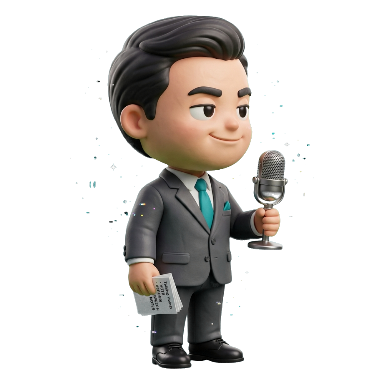
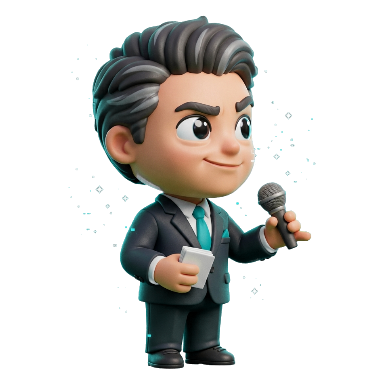
Add all 21 character sprites (made in Google Flow, keyed by tools/chroma-key.mjs)

Changed region(s): [[0.2188, 0.0312, 0.8125, 0.9688], [0.2188, 0.4688, 0.2812, 0.5], [0.6562, 0.75, 0.6875, 0.7812]]

diff --git a/js/data/asset-manifest.js b/js/data/asset-manifest.js
@@ -2,16 +2,26 @@
 // Files not listed here are never requested by the game (no 404 spam).
 export const ASSET_FILES = [
   'assets/enemies/arafat/walk.png',
+  'assets/enemies/ferdous/walk.png',
   'assets/enemies/hasina/walk.png',
   'assets/enemies/inan/walk.png',
+  'assets/enemies/mahi/walk.png',
   'assets/enemies/momotaz/walk.png',
+  'assets/enemies/murad/walk.png',
   'assets/enemies/nanok/walk.png',
   'assets/enemies/nazmul/walk.png',
   'assets/enemies/quader/walk.png',
+  'assets/enemies/riyaz/walk.png',
+  'assets/enemies/saddam/walk.png',
   'assets/enemies/shamim/walk.png',
+  'assets/enemies/shohag/walk.png',
+  'assets/enemies/somrat/walk.png',
   'assets/enemies/taposh/walk.png',
   'assets/enemies/zakir/walk.png',
+  'assets/heroes/common/ready.png',
   'assets/heroes/farmer/ready.png',
+  'assets/heroes/studentF/ready.png',
+  'assets/heroes/studentM/ready.png',
 ];
 
 // Sprite paths follow the conventions in docs/prompts/.

diff --git a/docs/CHANGELOG.md b/docs/CHANGELOG.md
@@ -3,6 +3,21 @@
 Newest first. Every work session adds an entry: date, what changed, why, and anything
 left unfinished. Keep entries short; details belong in commits and ARCHITECTURE.md.
 
+## 2026-11-12 — all 21 characters (made by the user in Google Flow)
+- The user generated all 21 characters by hand in Google Flow with the prompts in
+  `docs/prompts/flow-batches.md` (the queued agy job was cancelled), replacing the 11
+  agy-made ones so the set matches. The old ones are in `art-src/*/old.generated/` (not
+  committed).
+- Claude:
+  - renamed `studenF.jpg` → `studentF.jpg`;
+  - removed the Windows `*:Zone.Identifier` files;
+  - keyed all 21 (`tools/chroma-key.mjs`; the green flag headbands survived) and rebuilt
+    the manifest (21 files, ~2.5 MB).
+  - The asset report now treats `kicked`/`idle`/`kick`/`cheer` as optional (the game fakes
+    them).
+- Tested headless (desktop + phone): all 21 images load, no page errors; hero select,
+  classic, lasso jail and the how-to roster show the art.
+
 ## 2026-11-12 — simpler game, reaction bubbles, automated 3D art (branch `lasso`)
 - **The user's goal:** fun for all ages, not complex. Decisions: keep only ❄ Freeze + 🛡 Shield;
   remove the classic upgrade (perk) screen and the Sweep button; add funny reaction bubbles;

diff --git a/docs/TODO.md b/docs/TODO.md
@@ -42,10 +42,9 @@ you notice but don't fix. The longer feature wishlist is in README.md → "Roadm
 - [ ] Ideas: perks for this mode, an endless variant, letting the player drag the hero.
 
 ## Art (2026-11-12)
-- [ ] 10 characters still to generate after the agy image quota reset (see CHANGELOG); then
-      look at `art-src/sheet.png` and regenerate any odd ones with
-      `node tools/gen-art.mjs --only <id> --force`.
-- [ ] Some generated figures face the viewer or left instead of right; mirroring assumes
-      right. Regenerate those if it looks wrong in play.
+- [x] All 21 characters generated (user, Google Flow) and keyed.
+- [ ] The sprites total ~2.5 MB of PNG (384 px). If load time on mobile data matters, try
+      256 px (`node tools/chroma-key.mjs --size 256`) or add WebP support to the manifest.
+- [ ] Hero cards and the how-to roster show the whole tiny body in a small circle; a
+      head-and-shoulders crop would read better there.
 - [ ] Optional extra poses (`kicked`, hero `kick`) could be generated later for even more life.
-

diff --git a/README.md b/README.md
@@ -180,6 +180,9 @@ image generator (3D toy style), `node tools/chroma-key.mjs` removes the green ba
 `node tools/build-assets.mjs`. One image per character is enough; other poses are animated by
 the game. Details: `tools/art/README.md`.
 
+**With Google Flow / Gemini web:** paste the batches from `docs/prompts/flow-batches.md`, save
+each image as `art-src/<kind>/<id>.png` (or .jpg), then run the last two commands above.
+
 **By hand:** art and sound prompts are in `docs/prompts/`. Put the generated files in `assets/` using exactly
 the names listed there (see `assets/README.md`), then run:
 
